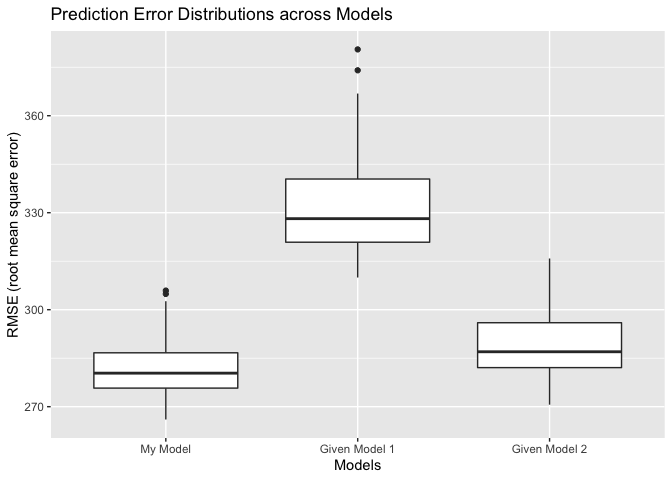
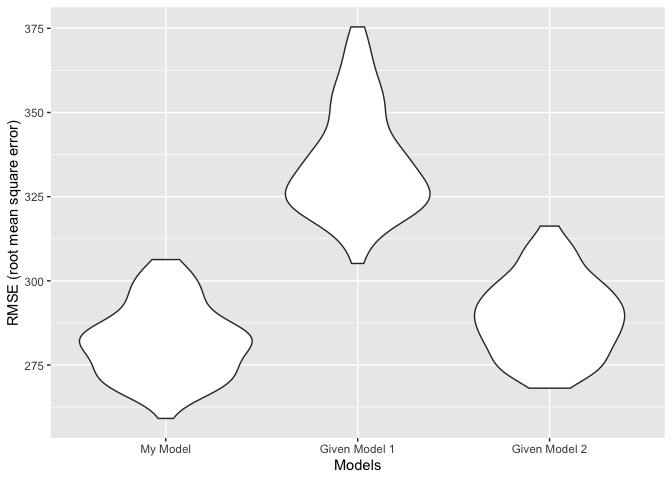
Updating markdown with latest changes in rmd

diff --git a/p8105_hw6_js5958.md b/p8105_hw6_js5958.md
@@ -345,6 +345,7 @@ df_weight %>%
 ```
 
 ![](p8105_hw6_js5958_files/figure-gfm/unnamed-chunk-14-1.png)<!-- -->
+
 From the above correlation map we can selected the variables which are
 significantly correlated with weight. The variables we will be using are
 mother’s weight gain during pregnancy (pounds), gestational age in
@@ -460,18 +461,11 @@ cv_df <-
 ``` r
 cv_df %>% 
   select(starts_with("rmse")) %>% 
-  pivot_longer(
-    everything(),
-    names_to = "model", 
-    values_to = "rmse",
+  pivot_longer(everything(),names_to = "model", values_to = "rmse",
     names_prefix = "rmse_") %>% 
-  mutate(model = 
-           fct_inorder(model)) %>% 
-  ggplot(aes(x = model, 
-             y = rmse)) + 
-  geom_boxplot() +
-  labs(
-    title = "Prediction Error Distributions across Models",
+  mutate(model = fct_inorder(model)) %>% 
+  ggplot(aes(x = model, y = rmse)) + 
+  geom_violin() +labs(
     x = "Models",
     y = "RMSE (root mean square error)"
   ) +
